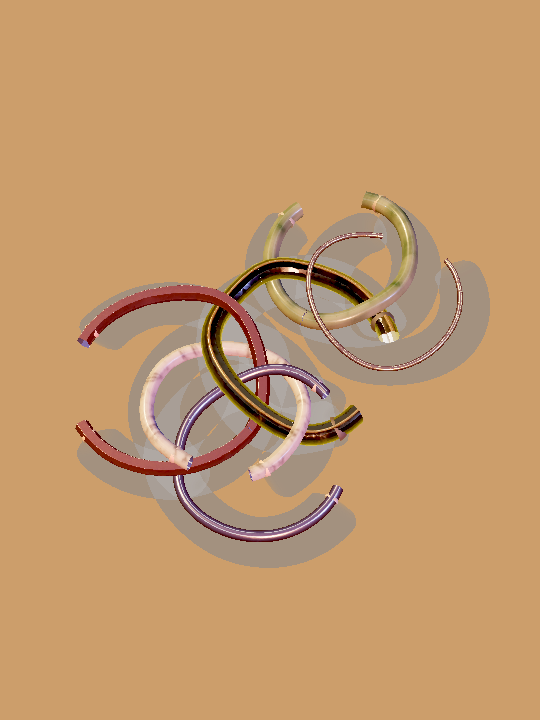
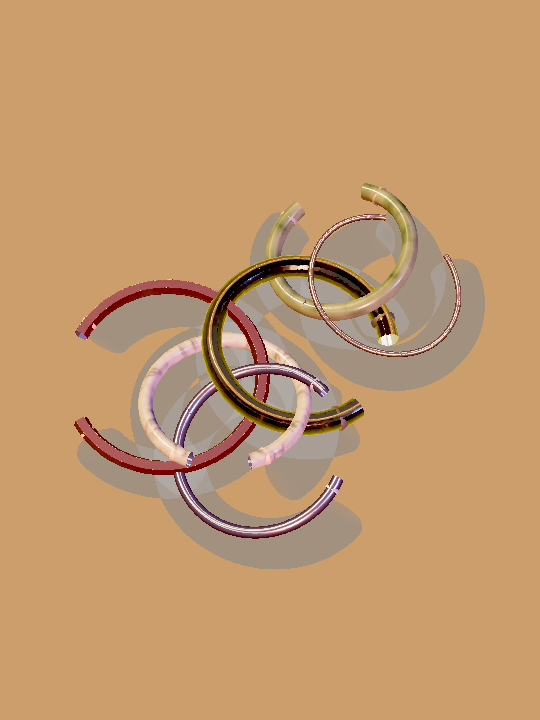
Rings as rigid Meshy models: no per-vertex bending, rigid lean for over/under (v1.1.4)
- RING_VS/GLBRING_VS: model matrix (uniform scale, rotation, rigid tilt) replaces the weave bump profile
- tilt = least-squares plane through the crossing over/under heights; shadows and caps share it
- headless renderer mirrors the change; docs and screenshots updated

Claude-Session: https://claude.ai/code/session_01UVtWuVMRXKuxhqo9e5aBGr

diff --git a/app/src/main/java/com/shiostudios/dumplingrings/ui/board3d/Board3DRenderer.kt b/app/src/main/java/com/shiostudios/dumplingrings/ui/board3d/Board3DRenderer.kt
@@ -49,7 +49,7 @@ class Board3DRenderer(private val context: Context, private val level: LevelDefi
     private val centers = Array(level.rings.size) { FloatArray(2) }
     private val radii = FloatArray(level.rings.size); private val minors = FloatArray(level.rings.size)
     private val crossings = ArrayList<Crossing>()
-    private val bumpBuf = FloatArray(Shaders.MAX_BUMPS * 2)
+    private val tiltBuf = FloatArray(9)
     private var whiteTex = 0
 
     private class Crossing(val a: Int, val b: Int, val angA: Float, val angB: Float, val aOver: Boolean)
@@ -136,7 +136,8 @@ class Board3DRenderer(private val context: Context, private val level: LevelDefi
     } catch (e: Exception) { Log.i("Board3D", "ring model $name not available: ${e.message}"); null }
 
     private fun shadowVs() = Shaders.RING_VS
-        .replace("vec3 p = vec3(uCenter + radial * uMajor, z0) + n * r;", "vec3 p = vec3(uCenter + radial * uMajor, z0) + n * r * 1.8; p.xy += vec2(0.35, -0.25) * p.z; p.z = 0.0015;")
+        .replace("+ n * r;   // local", "+ n * r * 1.8;   // local")
+        .replace("vec3 p = uTilt * pl + vec3(uCenter, uZ0);", "vec3 p = uTilt * pl + vec3(uCenter, uZ0); p.xy += vec2(0.35, -0.25) * p.z; p.z = 0.0015;")
 
     override fun onSurfaceChanged(gl: GL10?, width: Int, height: Int) {
         GLES30.glViewport(0, 0, width, height)
@@ -213,19 +214,6 @@ class Board3DRenderer(private val context: Context, private val level: LevelDefi
         GLES30.glUniform1f(u(prog, "uLift"), if (shadow) 0f else e * 0.35f)
         GLES30.glUniform2f(u(prog, "uSlide"), ex * 0.22f * e, ey * 0.22f * e)
         GLES30.glUniform1f(u(prog, "uScale"), 1f + 0.15f * e)
-        // weave bumps: only crossings whose partner is still on the table
-        var n = 0
-        for (c in crossings) {
-            val me = if (c.a == i) 0 else if (c.b == i) 1 else -1
-            if (me < 0) continue
-            val partner = if (me == 0) c.b else c.a
-            if (s.rings[partner].removed) continue
-            val over = if (me == 0) c.aOver else !c.aOver
-            if (n < Shaders.MAX_BUMPS) { bumpBuf[n * 2] = if (me == 0) c.angA else c.angB; bumpBuf[n * 2 + 1] = (if (over) 1f else -1f) * minors[i] * 1.15f; n++ }
-        }
-        GLES30.glUniform1i(u(prog, "uBumpCount"), n)
-        GLES30.glUniform2fv(u(prog, "uBumps"), Shaders.MAX_BUMPS, bumpBuf, 0)
-        GLES30.glUniform1f(u(prog, "uBumpSigma"), (minors[i] * 2.6f / radii[i]).coerceIn(0.12f, 0.5f))
         if (shadow) {
             GLES30.glUniform1f(u(prog, "uAlpha"), 0.32f * (1f - e))
         } else {
@@ -258,18 +246,27 @@ class Board3DRenderer(private val context: Context, private val level: LevelDefi
         GLES30.glUniform1f(u(prog, "uLift"), if (shadow) 0f else e * 0.35f)
         GLES30.glUniform2f(u(prog, "uSlide"), ex * 0.22f * e, ey * 0.22f * e)
         GLES30.glUniform1f(u(prog, "uScale"), 1f + 0.15f * e)
-        var n = 0
+        // rigid tilt: least-squares plane through the desired over/under heights at every live crossing (interlocked rings lean like chain links)
+        var sxx = 0.0; var syy = 0.0; var sxy = 0.0; var sxz = 0.0; var syz = 0.0
         for (c in crossings) {
             val me = if (c.a == i) 0 else if (c.b == i) 1 else -1
             if (me < 0) continue
             val partner = if (me == 0) c.b else c.a
             if (s.rings[partner].removed) continue
             val over = if (me == 0) c.aOver else !c.aOver
-            if (n < Shaders.MAX_BUMPS) { bumpBuf[n * 2] = if (me == 0) c.angA else c.angB; bumpBuf[n * 2 + 1] = (if (over) 1f else -1f) * minors[i] * 1.15f; n++ }
+            val ang = (if (me == 0) c.angA else c.angB).toDouble()
+            val x = cos(ang) * radii[i]; val y = sin(ang) * radii[i]; val z = (if (over) 1.0 else -1.0) * minors[i] * 1.15
+            sxx += x * x; syy += y * y; sxy += x * y; sxz += x * z; syz += y * z
         }
-        GLES30.glUniform1i(u(prog, "uBumpCount"), n)
-        GLES30.glUniform2fv(u(prog, "uBumps"), Shaders.MAX_BUMPS, bumpBuf, 0)
-        GLES30.glUniform1f(u(prog, "uBumpSigma"), (minors[i] * 2.6f / radii[i]).coerceIn(0.12f, 0.5f))
+        val det = sxx * syy - sxy * sxy
+        var a = 0.0; var b = 0.0
+        if (det > 1e-12) { a = (sxz * syy - syz * sxy) / det; b = (syz * sxx - sxz * sxy) / det }
+        else if (sxx + syy > 1e-12) { val g = (sxz + syz) / (sxx + syy + 2 * sxy).coerceAtLeast(1e-12); a = g; b = g }
+        val maxSlope = 1.6 * minors[i] / radii[i]; val mag = Math.hypot(a, b)
+        if (mag > maxSlope) { a *= maxSlope / mag; b *= maxSlope / mag }
+        tiltMatrix(a, b, tiltBuf)
+        GLES30.glUniformMatrix3fv(u(prog, "uTilt"), 1, false, tiltBuf, 0)
+        GLES30.glUniform1f(u(prog, "uZ0"), minors[i] * 1.02f + (0.55 * Math.hypot(a, b) * radii[i]).toFloat())
         return e
     }
 
@@ -315,6 +312,16 @@ class Board3DRenderer(private val context: Context, private val level: LevelDefi
         GLES30.glUniform1f(u(ringProg, "uStripeOn"), 0f)
         GLES30.glDrawElements(GLES30.GL_TRIANGLES, capMeshes[i].indexCount, GLES30.GL_UNSIGNED_SHORT, 0)
         GLES30.glDisableVertexAttribArray(1)
+    }
+
+    /** Rotation that maps +z onto the normal of the plane z = a·x + b·y (Rodrigues), column-major for GL. */
+    private fun tiltMatrix(a: Double, b: Double, out: FloatArray) {
+        val nx = -a; val ny = -b; val l = Math.sqrt(nx * nx + ny * ny + 1.0)
+        val x = nx / l; val y = ny / l; val z = 1.0 / l
+        val k = 1.0 / (1.0 + z)
+        out[0] = (1 - x * x * k).toFloat(); out[1] = (-x * y * k).toFloat(); out[2] = (-x).toFloat()   // column 0 = image of x axis
+        out[3] = (-x * y * k).toFloat(); out[4] = (1 - y * y * k).toFloat(); out[5] = (-y).toFloat()   // column 1 = image of y axis
+        out[6] = x.toFloat(); out[7] = y.toFloat(); out[8] = z.toFloat()                                 // column 2 = n
     }
 
     private fun colorOf(id: String?): FloatArray = when (id) { "red" -> floatArrayOf(0.88f, 0.32f, 0.28f); "jade" -> floatArrayOf(0.3f, 0.72f, 0.56f); "ube" -> floatArrayOf(0.6f, 0.45f, 0.82f); else -> floatArrayOf(0.4f, 0.25f, 0.15f) }

diff --git a/app/src/main/java/com/shiostudios/dumplingrings/ui/board3d/Shaders.kt b/app/src/main/java/com/shiostudios/dumplingrings/ui/board3d/Shaders.kt
@@ -17,37 +17,25 @@ uniform float uRot;        // ring rotation (rad)
 uniform float uLift;       // z lift (release animation)
 uniform vec2 uSlide;       // xy offset (release animation)
 uniform float uScale;      // uniform scale (release animation)
-uniform int uBumpCount;
-uniform vec2 uBumps[$MAX_BUMPS]; // (worldAngleRad, sign*height)
-uniform float uBumpSigma;        // rad
+uniform mat3 uTilt;        // rigid tilt of the whole ring (interlocked rings lean, they never bend)
+uniform float uZ0;         // ring centre height
 out vec3 vPos; out vec3 vNormal; out vec2 vUv; out float vCap;
-float bumpAt(float wa) {
-  float z = 0.0;
-  for (int i = 0; i < $MAX_BUMPS; i++) { if (i >= uBumpCount) break;
-    float d = wa - uBumps[i].x; d = d - 6.2831853 * floor((d + 3.14159265) / 6.2831853);
-    z += uBumps[i].y * exp(-0.5 * (d * d) / (uBumpSigma * uBumpSigma)); }
-  return z;
-}
 void main() {
   float la = aData.x; float ta = aData.y;
   float capScale = abs(aCap); float capDir = aCap < 0.0 ? -1.0 : 1.0; float vv = aData.w;
   float wa = la + uRot;
   float r = uMinor * capScale;
-  // centreline point and frame
   vec2 radial = vec2(cos(wa), sin(wa));
-  float z0 = uMinor * 1.02 + bumpAt(wa);
-  // slope of the bump for the normal tilt
-  float dz = (bumpAt(wa + 0.01) - bumpAt(wa - 0.01)) / 0.02 / max(uMajor, 1e-4);
-  vec3 tangent = normalize(vec3(-radial.y, radial.x, dz));
+  vec3 tangent = vec3(-radial.y, radial.x, 0.0);
   vec3 up = vec3(0.0, 0.0, 1.0);
   vec3 radial3 = vec3(radial, 0.0);
   vec3 n = normalize(cos(ta) * radial3 + sin(ta) * up);
-  // make the normal orthogonal to the tilted tangent
-  n = normalize(n - tangent * dot(n, tangent));
-  vec3 p = vec3(uCenter + radial * uMajor, z0) + n * r;
+  vec3 pl = vec3(radial * uMajor, 0.0) + n * r;   // local: a perfect flat torus around the origin
   // dome caps: blend the normal towards the tube axis so the rounded end shades as a dome, not an open pipe
   float axial = sqrt(max(0.0, 1.0 - capScale * capScale));
   n = normalize(n * capScale + tangent * capDir * axial);
+  vec3 p = uTilt * pl + vec3(uCenter, uZ0);
+  n = normalize(uTilt * n);
   p.xy = (p.xy - uCenter) * uScale + uCenter + uSlide; p.z = p.z * uScale + uLift;
   vPos = p; vNormal = n; vUv = vec2(aData.z, vv); vCap = capScale;
   gl_Position = uViewProj * vec4(p, 1.0);
@@ -118,24 +106,18 @@ layout(location = 2) in vec3 aNrm;    // normal in (radial, tangent, up) frame
 uniform mat4 uViewProj;
 uniform vec2 uCenter; uniform float uMajor; uniform float uMinor; uniform float uRot;
 uniform float uLift; uniform vec2 uSlide; uniform float uScale;
-uniform int uBumpCount; uniform vec2 uBumps[$MAX_BUMPS]; uniform float uBumpSigma;
+uniform mat3 uTilt; uniform float uZ0;
 out vec3 vPos; out vec3 vNormal; out vec2 vUv; out float vLocal;
-float bumpAt(float wa) {
-  float z = 0.0;
-  for (int i = 0; i < $MAX_BUMPS; i++) { if (i >= uBumpCount) break;
-    float d = wa - uBumps[i].x; d = d - 6.2831853 * floor((d + 3.14159265) / 6.2831853);
-    z += uBumps[i].y * exp(-0.5 * (d * d) / (uBumpSigma * uBumpSigma)); }
-  return z;
-}
 void main() {
   float la = aTube.x; float wa = la + uRot;
   vec2 radial = vec2(cos(wa), sin(wa));
-  float z0 = uMinor * 1.02 + bumpAt(wa);
-  float dz = (bumpAt(wa + 0.01) - bumpAt(wa - 0.01)) / 0.02 / max(uMajor, 1e-4);
-  vec3 tangent = normalize(vec3(-radial.y, radial.x, dz));
+  vec3 tangent = vec3(-radial.y, radial.x, 0.0);
   vec3 radial3 = vec3(radial, 0.0); vec3 up = vec3(0.0, 0.0, 1.0);
-  vec3 p = vec3(uCenter + radial * (uMajor + aTube.y * uMinor), z0 + aTube.z * uMinor);
+  // the Meshy model, uniformly scaled (uMinor/uMajor = the model's own tube ratio) and rigidly placed: never deformed
+  vec3 pl = vec3(radial * (uMajor + aTube.y * uMinor), aTube.z * uMinor);
   vec3 n = normalize(aNrm.x * radial3 + aNrm.y * tangent + aNrm.z * up);
+  vec3 p = uTilt * pl + vec3(uCenter, uZ0);
+  n = normalize(uTilt * n);
   p.xy = (p.xy - uCenter) * uScale + uCenter + uSlide; p.z = p.z * uScale + uLift;
   vPos = p; vNormal = n; vUv = aUv; vLocal = la;
   gl_Position = uViewProj * vec4(p, 1.0);

diff --git a/tools/level_preview/render_gles.py b/tools/level_preview/render_gles.py
@@ -17,7 +17,7 @@ ROOT = os.path.dirname(os.path.dirname(os.path.dirname(os.path.abspath(__file__)
 def shaders():
     s = open(os.path.join(ROOT, "app/src/main/java/com/shiostudios/dumplingrings/ui/board3d/Shaders.kt")).read()
     d = {n: b.replace("$MAX_BUMPS", "24") for n, b in re.findall(r'val (\w+) = """(.*?)"""', s, flags=re.S)}
-    d["SHADOW_VS"] = d["RING_VS"].replace("vec3 p = vec3(uCenter + radial * uMajor, z0) + n * r;", "vec3 p = vec3(uCenter + radial * uMajor, z0) + n * r * 1.8; p.xy += vec2(0.35, -0.25) * p.z; p.z = 0.0015;")
+    d["SHADOW_VS"] = d["RING_VS"].replace("+ n * r;   // local", "+ n * r * 1.8;   // local").replace("vec3 p = uTilt * pl + vec3(uCenter, uZ0);", "vec3 p = uTilt * pl + vec3(uCenter, uZ0); p.xy += vec2(0.35, -0.25) * p.z; p.z = 0.0015;")
     return d
 
 # ---------------- camera (mirror of BoardCamera)
@@ -253,9 +253,17 @@ def main():
         glUniform2f(u("uCenter"), 0.5 + (r["center"][0] - cx) * k, 0.5 + (r["center"][1] - cy) * k)
         glUniform1f(u("uMajor"), r["radius"] * k); glUniform1f(u("uMinor"), r["thickness"] * k * 0.5)
         glUniform1f(u("uRot"), math.radians(r["initialAngleDeg"])); glUniform1f(u("uLift"), 0); glUniform2f(u("uSlide"), 0, 0); glUniform1f(u("uScale"), 1)
-        bl = bumps[r["id"]][:24]; arr = np.zeros(48, np.float32)
-        for bi, (ba, bh) in enumerate(bl): arr[bi * 2] = ba; arr[bi * 2 + 1] = bh
-        glUniform1i(u("uBumpCount"), len(bl)); glUniform2fv(u("uBumps"), 24, arr); glUniform1f(u("uBumpSigma"), min(max(r["thickness"] * 0.5 * 2.6 / r["radius"], 0.12), 0.5))
+        R = r["radius"] * k; mn = r["thickness"] * k * 0.5
+        pts = [(math.cos(ba) * R, math.sin(ba) * R, bh) for ba, bh in bumps[r["id"]]]
+        sxx = sum(x * x for x, y, z in pts); syy = sum(y * y for x, y, z in pts); sxy = sum(x * y for x, y, z in pts); sxz = sum(x * z for x, y, z in pts); syz = sum(y * z for x, y, z in pts)
+        det = sxx * syy - sxy * sxy; a = b = 0.0
+        if det > 1e-12: a = (sxz * syy - syz * sxy) / det; b = (syz * sxx - sxz * sxy) / det
+        elif sxx + syy > 1e-12: g = (sxz + syz) / max(sxx + syy + 2 * sxy, 1e-12); a = b = g
+        ms = 1.6 * mn / R; mag = math.hypot(a, b)
+        if mag > ms: a *= ms / mag; b *= ms / mag
+        nx, ny = -a, -b; l = math.sqrt(nx * nx + ny * ny + 1.0); x, y, z = nx / l, ny / l, 1.0 / l; kk = 1.0 / (1.0 + z)
+        m = np.array([[1 - x * x * kk, -x * y * kk, x], [-x * y * kk, 1 - y * y * kk, y], [-x, -y, z]], np.float32)   # GL row-major view
+        glUniformMatrix3fv(u("uTilt"), 1, True, m); glUniform1f(u("uZ0"), mn * 1.02 + 0.55 * math.hypot(a, b) * R)
     white = glGenTextures(1); glBindTexture(GL_TEXTURE_2D, white); glTexImage2D(GL_TEXTURE_2D, 0, GL_RGB, 2, 2, 0, GL_RGB, GL_UNSIGNED_BYTE, bytes([255] * 12)); glTexParameteri(GL_TEXTURE_2D, GL_TEXTURE_MIN_FILTER, GL_LINEAR)
     def draw_ring(p, i, r, shadow, sel=False):
         v, ix = meshes[i]
@@ -268,9 +276,17 @@ def main():
         glUniform2f(u("uCenter"), 0.5 + (r["center"][0] - cx) * k, 0.5 + (r["center"][1] - cy) * k)
         glUniform1f(u("uMajor"), r["radius"] * k); glUniform1f(u("uMinor"), r["thickness"] * k * 0.5)
         glUniform1f(u("uRot"), math.radians(r["initialAngleDeg"])); glUniform1f(u("uLift"), 0); glUniform2f(u("uSlide"), 0, 0); glUniform1f(u("uScale"), 1)
-        bl = bumps[r["id"]][:24]; arr = np.zeros(48, np.float32)
-        for bi, (ba, bh) in enumerate(bl): arr[bi * 2] = ba; arr[bi * 2 + 1] = bh
-        glUniform1i(u("uBumpCount"), len(bl)); glUniform2fv(u("uBumps"), 24, arr); glUniform1f(u("uBumpSigma"), min(max(r["thickness"] * 0.5 * 2.6 / r["radius"], 0.12), 0.5))
+        R = r["radius"] * k; mn = r["thickness"] * k * 0.5
+        pts = [(math.cos(ba) * R, math.sin(ba) * R, bh) for ba, bh in bumps[r["id"]]]
+        sxx = sum(x * x for x, y, z in pts); syy = sum(y * y for x, y, z in pts); sxy = sum(x * y for x, y, z in pts); sxz = sum(x * z for x, y, z in pts); syz = sum(y * z for x, y, z in pts)
+        det = sxx * syy - sxy * sxy; a = b = 0.0
+        if det > 1e-12: a = (sxz * syy - syz * sxy) / det; b = (syz * sxx - sxz * sxy) / det
+        elif sxx + syy > 1e-12: g = (sxz + syz) / max(sxx + syy + 2 * sxy, 1e-12); a = b = g
+        ms = 1.6 * mn / R; mag = math.hypot(a, b)
+        if mag > ms: a *= ms / mag; b *= ms / mag
+        nx, ny = -a, -b; l = math.sqrt(nx * nx + ny * ny + 1.0); x, y, z = nx / l, ny / l, 1.0 / l; kk = 1.0 / (1.0 + z)
+        m = np.array([[1 - x * x * kk, -x * y * kk, x], [-x * y * kk, 1 - y * y * kk, y], [-x, -y, z]], np.float32)   # GL row-major view
+        glUniformMatrix3fv(u("uTilt"), 1, True, m); glUniform1f(u("uZ0"), mn * 1.02 + 0.55 * math.hypot(a, b) * R)
         if shadow: glUniform1f(u("uAlpha"), 0.32)
         else:
             set_lights(p); glActiveTexture(GL_TEXTURE0); glBindTexture(GL_TEXTURE_2D, textures.get(r["materialId"], textures["dough_sesame"])); glUniform1i(u("uAlbedo"), 0)

diff --git a/docs/IMPLEMENTATION_STATUS.md b/docs/IMPLEMENTATION_STATUS.md
@@ -24,7 +24,7 @@ Last updated: 2026-10-01 (end of the one-shot build). Status legend: ✅ built a
 - [ ] 15° step levels — supported by the engine, not used in the campaign (solver tractability); all campaign levels use 30°.
 
 ### Presentation
-- [x] **v1.1: real 3D board** — GLES 3.0 board; **every ring is a Meshy-generated premium 3D model** (14 rings: gold, silver, rose gold, onyx, jade, marble, bronze, obsidian, pearl, red lacquer + gold rope, beaded pearl, jade bamboo, silver wave; `docs/MESHY_3D_REPORT.md`) dressed onto the level's radius/thickness/gaps in the vertex shader with a woven height profile at every crossing; full PBR (base colour, metallic/roughness, normal map), studio environment reflections, per-world key/fill/rim lighting, projected soft shadows, rim-light selection glow, domed ring ends, colour-gate stripes; obstacles (chopsticks, lantern arms, locks) are procedural capsules; release lift-and-fly animation. The procedural dough-tube renderer was removed — rings are Meshy models only.
+- [x] **v1.1: real 3D board** — GLES 3.0 board; **every ring is a Meshy-generated premium 3D model** (14 rings: gold, silver, rose gold, onyx, jade, marble, bronze, obsidian, pearl, red lacquer + gold rope, beaded pearl, jade bamboo, silver wave; `docs/MESHY_3D_REPORT.md`) placed as a rigid body (uniform scale, rotation, a rigid lean derived from over/under at its crossings) so rings stay perfectly round; gaps cut in-shader; full PBR (base colour, metallic/roughness, normal map), studio environment reflections, per-world key/fill/rim lighting, projected soft shadows, rim-light selection glow, domed ring ends, colour-gate stripes; obstacles (chopsticks, lantern arms, locks) are procedural capsules; release lift-and-fly animation. The procedural dough-tube renderer was removed — rings are Meshy models only.
 - [x] **v1.1: living background** — Ken-Burns drift, breathing light pool, world particles (petals / embers & fireflies / moon dust & snow), steam, vignette; combo bursts, sparkles and steam on release; all respect Reduce Motion and effect quality
 - [x] Release fly-out + dumpling pop + sparkles + steam, shake feedback, blossom petals, tutorial hand (the v1.0 2D Canvas ring renderer was deleted in v1.1 — only Meshy rings ship)
 - [x] Drag-to-rotate (one drag = one move), snapping with ticks/haptics, arc clamping during drag, linked rings follow visually, accessibility rotate buttons

diff --git a/docs/ARCHITECTURE.md b/docs/ARCHITECTURE.md
@@ -44,8 +44,7 @@ plus the screens. Content JSON, audio and art are shared as-is.
 `app/ui/board3d/`: `BoardCamera` (shared perspective camera, project/unproject for overlay + touch), `GlbLoader` (minimal GLB
 reader incl. PBR textures), `RingModel` (normalises any Meshy torus into tube space: angle, radial/height offset in tube radii,
 UV, local normal — so one model dresses every level ring), `TorusMesh` (procedural arcs used only for the projected shadow and the
-domed end caps that close the cut ring), `Shaders` (GLSL ES 3.00: `GLBRING` vertex-shader rebuild for the level's radius,
-thickness, rotation and woven height profile; in-shader gap cut; PBR metallic-roughness with normal map, studio environment
+domed end caps that close the cut ring), `Shaders` (GLSL ES 3.00: `GLBRING` vertex shader places the model rigidly (uniform scale to the level radius, rotation, a rigid lean per ring derived from its crossings' over/under); in-shader gap cut; PBR metallic-roughness with normal map, studio environment
 reflection, key/fill/rim lights, rim-light selection glow, colour-gate stripe), `Board3DRenderer` (GLSurfaceView renderer: glow
 discs, projected soft shadows, Meshy rings only — a missing asset falls back to the silver Meshy ring — procedural capsule
 obstacles, dumpling pop), `Board3D` (Compose host + touch via the camera), `BoardOverlay` (2D decorations/FX at projected

diff --git a/docs/RELEASE_NOTES.md b/docs/RELEASE_NOTES.md
@@ -1,3 +1,9 @@
+## Dumpling Rings 1.1.4 — rings are rigid Meshy models
+
+- No more per-vertex bending: every ring is the Meshy GLB placed as a rigid body (position, uniform scale, rotation) and therefore perfectly round
+- Over/under at crossings is shown by a rigid lean of the whole ring (least-squares plane through the crossing heights), like interlocked bangles; shadows and end caps follow the same transform
+- Ready for a free-camera 3D mode: the ring transform is a plain model matrix
+
 ## Dumpling Rings 1.1.3 — cinematic lighting
 
 - Three-point cinematic rig per world (hot low key that slowly sweeps, dim complementary fill, strong rim from behind, dark ambient): warm morning in the teahouse, amber lantern and deep blue in the night market, moonlight on the mountain
